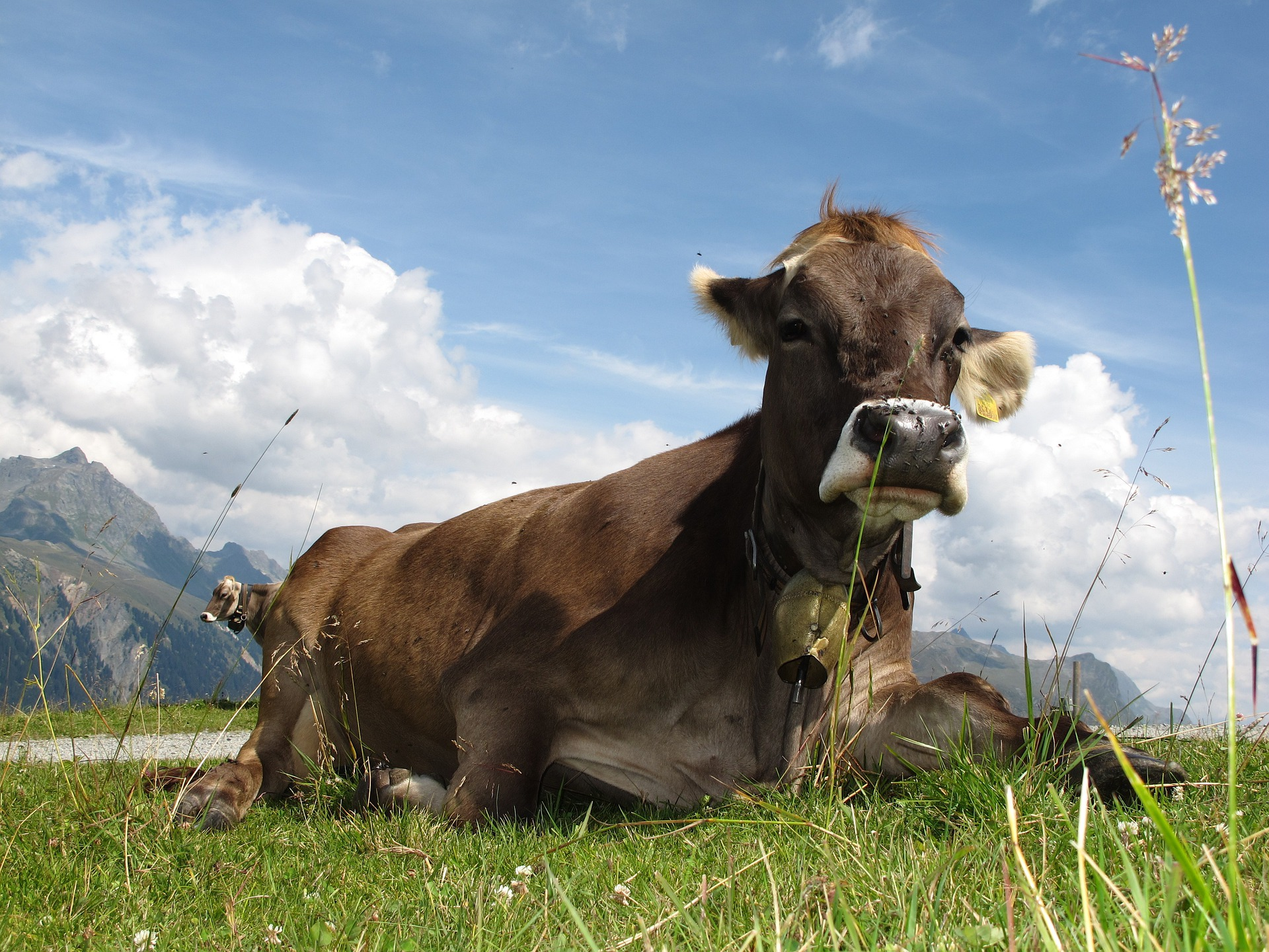
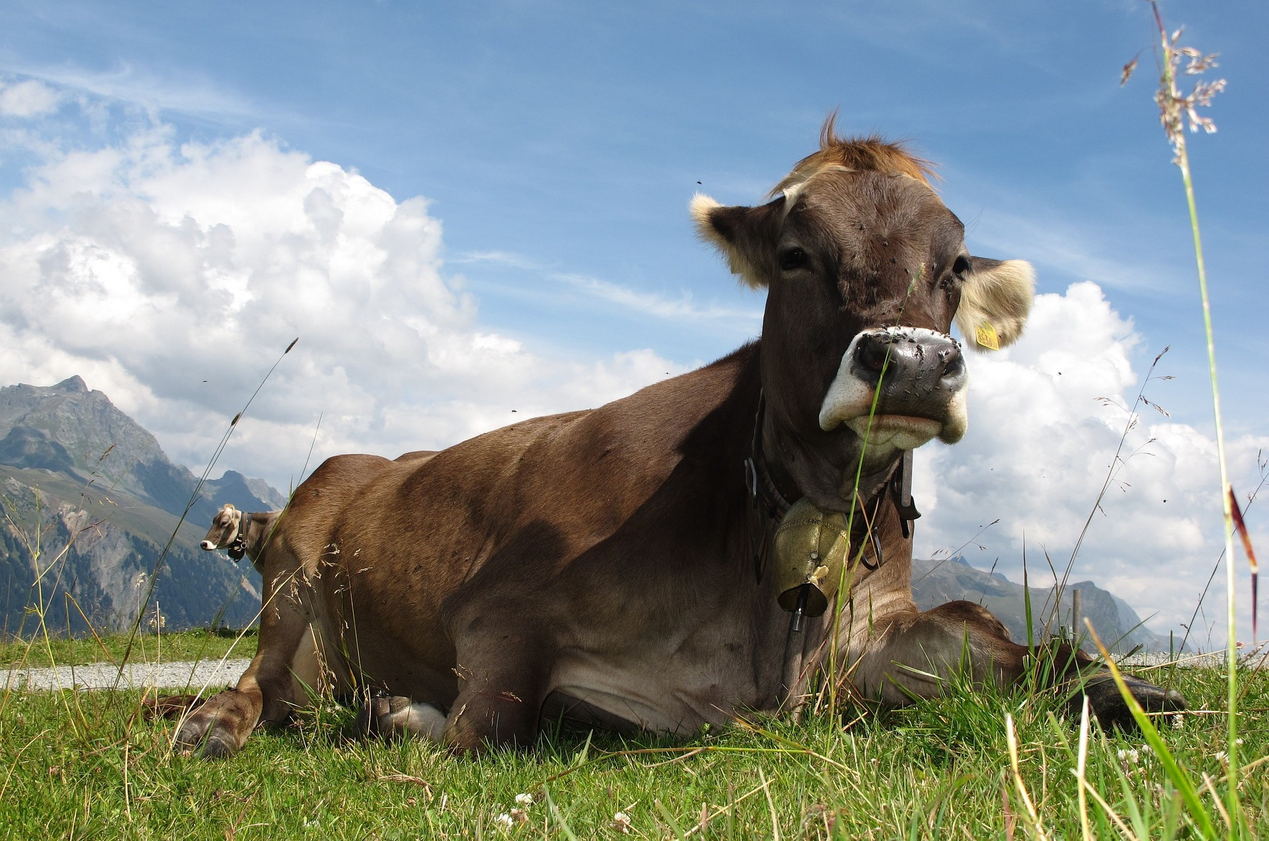
add overlay to the images in HomePage.html

diff --git a/src/main/resources/static/css/homePage.css b/src/main/resources/static/css/homePage.css
@@ -2,11 +2,10 @@
       font-family: 'Open Sans', sans-serif;
     }
 
-
     .slideshow-container {
         position: relative;
         width: 100%;
-        max-height: 600px;
+        max-height: 675px;
         overflow: hidden;
     }
 
@@ -17,17 +16,14 @@
 
     .mySlides.active {
         display: block;
+        overflow: hidden;
     }
 
     .mySlides img {
       width: 100%;
       max-height: 675px;
-    }
-
-
-    .mySlides.fade {
-      animation-name: fade;
-      animation-duration: 2.5s;
+      animation: zoom 15s alternate infinite;
+      transform-origin: center;
     }
 
     .menu-overlay {
@@ -46,8 +42,6 @@
         opacity: 1;
       }
     }
-
-
 
     .video-overlay {
         position: absolute;
@@ -69,8 +63,6 @@
         text-overflow: ellipsis;
         font-weight: 300;
     }
-
-
 
     .search-bar {
         display: flex;
@@ -273,16 +265,6 @@
             overflow: hidden;
         }
 
-        .fullscreen-video {
-            position: absolute;
-            top: 0;
-            left: 0;
-            width: 100%;
-            height: 100%;
-            object-fit: cover;
-            z-index: -1;
-        }
-
         .icon-label {
             width: 30px;
             height: 40px;
@@ -320,3 +302,30 @@
               }
 
      }
+
+    @keyframes zoom {
+        0% {
+            transform: scale(1);
+        }
+        50% {
+            transform: scale(1.1);
+        }
+        100% {
+            transform: scale(1);
+        }
+    }
+    .mySlides::after {
+        content: "";
+        position: absolute;
+        top: 0;
+        left: 0;
+        width: 100%;
+        height: 675px;
+        background-color: rgba(0, 0, 0, 0.25);
+        opacity: 1;
+    }
+    @media (max-width: 575px) {
+        .mySlides::after {
+            height: 675px;
+        }
+    }

diff --git a/src/main/resources/templates/HomePage.html b/src/main/resources/templates/HomePage.html
@@ -6,6 +6,7 @@
     <meta name="viewport" content="width=device-width, initial-scale=1">
     <link rel="stylesheet" href="https://cdnjs.cloudflare.com/ajax/libs/font-awesome/6.3.0/css/all.min.css">
     <script src=https://code.jquery.com/jquery-3.6.0.js></script>
+    <script src="https://code.jquery.com/jquery-3.6.0.min.js"></script>
     <script src="https://cdnjs.cloudflare.com/ajax/libs/bootstrap/5.3.0/js/bootstrap.bundle.min.js"></script>
     <link href="https://cdn.jsdelivr.net/npm/bootstrap@5.0.2/dist/css/bootstrap.min.css"
           rel="stylesheet"
